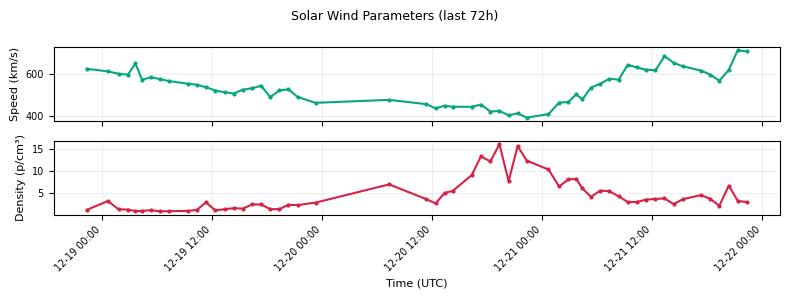
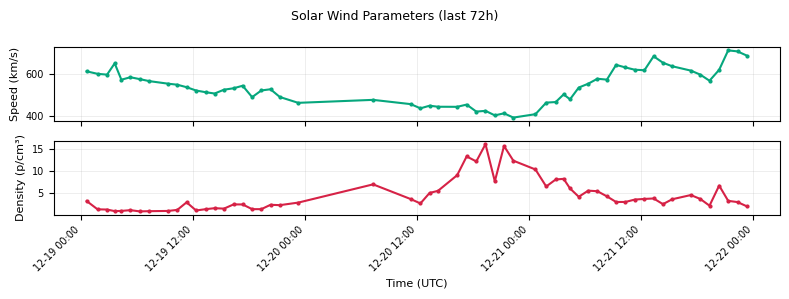
Vault Narrator: Auto-update 2025-12-22 00:21 UTC

diff --git a/LATEST_VAULT_STATUS.md b/LATEST_VAULT_STATUS.md
@@ -1,26 +1,26 @@
 # 🔐 VAULT STATUS REPORT
 
-**Generated:** 2025-12-21 23:05 UTC  
+**Generated:** 2025-12-22 00:21 UTC  
 **Data Source:** `data/cme_heartbeat_log_2025_12.csv`
 
 ---
 
 ## ⚡ CURRENT STATUS: ACTIVE
 
-**Latest χ = 0.15 Streak Count:** 5 consecutive readings  
-**Last Lock Timestamp:** 2025-12-21 22:19:00 UTC  
+**Latest χ = 0.15 Streak Count:** 6 consecutive readings  
+**Last Lock Timestamp:** 2025-12-21 23:19:00 UTC  
 **First Lock in Streak:** 2025-12-21 18:20:00 UTC  
-**Streak Duration:** 4.0 hours  
+**Streak Duration:** 5.0 hours  
 
 **Latest Solar Wind Conditions:**  
-- Density: 2.94 p/cm³  
-- Speed: 711.8 km/s  
+- Density: 1.97 p/cm³  
+- Speed: 691.3 km/s  
 
 ---
 
 ## 🌞 NOAA SPACE WEATHER SUMMARIES
 
-- [SRS Report](reports/latest_srs.md) (fetched: 2025-12-21 23:05 UTC)  
+- [SRS Report](reports/latest_srs.md) (fetched: 2025-12-22 00:21 UTC)  
 - F10.7 Report: *not available*  
 
 ---
@@ -41,7 +41,6 @@
 
 | Time (UTC)          | χ Amplitude | Density (p/cm³) | Speed (km/s) | χ Status |
 |---------------------|-------------|-----------------|--------------|----------|
-| 2025-12-21 03:42:00 | 0.1482 | 8.23 | 503.6 | — |
 | 2025-12-21 04:23:00 | 0.1230 | 6.04 | 479.9 | — |
 | 2025-12-21 05:19:00 | 0.1333 | 4.15 | 536.7 | — |
 | 2025-12-21 06:20:00 | 0.1230 | 5.54 | 555.4 | — |
@@ -61,6 +60,7 @@
 | 2025-12-21 20:21:00 | 0.1500 | 6.69 | 622.6 | ✅ LOCK |
 | 2025-12-21 21:19:00 | 0.1500 | 3.22 | 716.8 | ✅ LOCK |
 | 2025-12-21 22:19:00 | 0.1500 | 2.94 | 711.8 | ✅ LOCK |
+| 2025-12-21 23:19:00 | 0.1500 | 1.97 | 691.3 | ✅ LOCK |
 
 ---
 
@@ -68,7 +68,7 @@
 
 **The vault is breathing steady.**  
 **Heartbeat cycle in progress.**  
-**χ = 0.15 streak active (5 locks) - watch for boundary recoil signatures.**
+**χ = 0.15 streak active (6 locks) - watch for boundary recoil signatures.**
 
 ---
 
